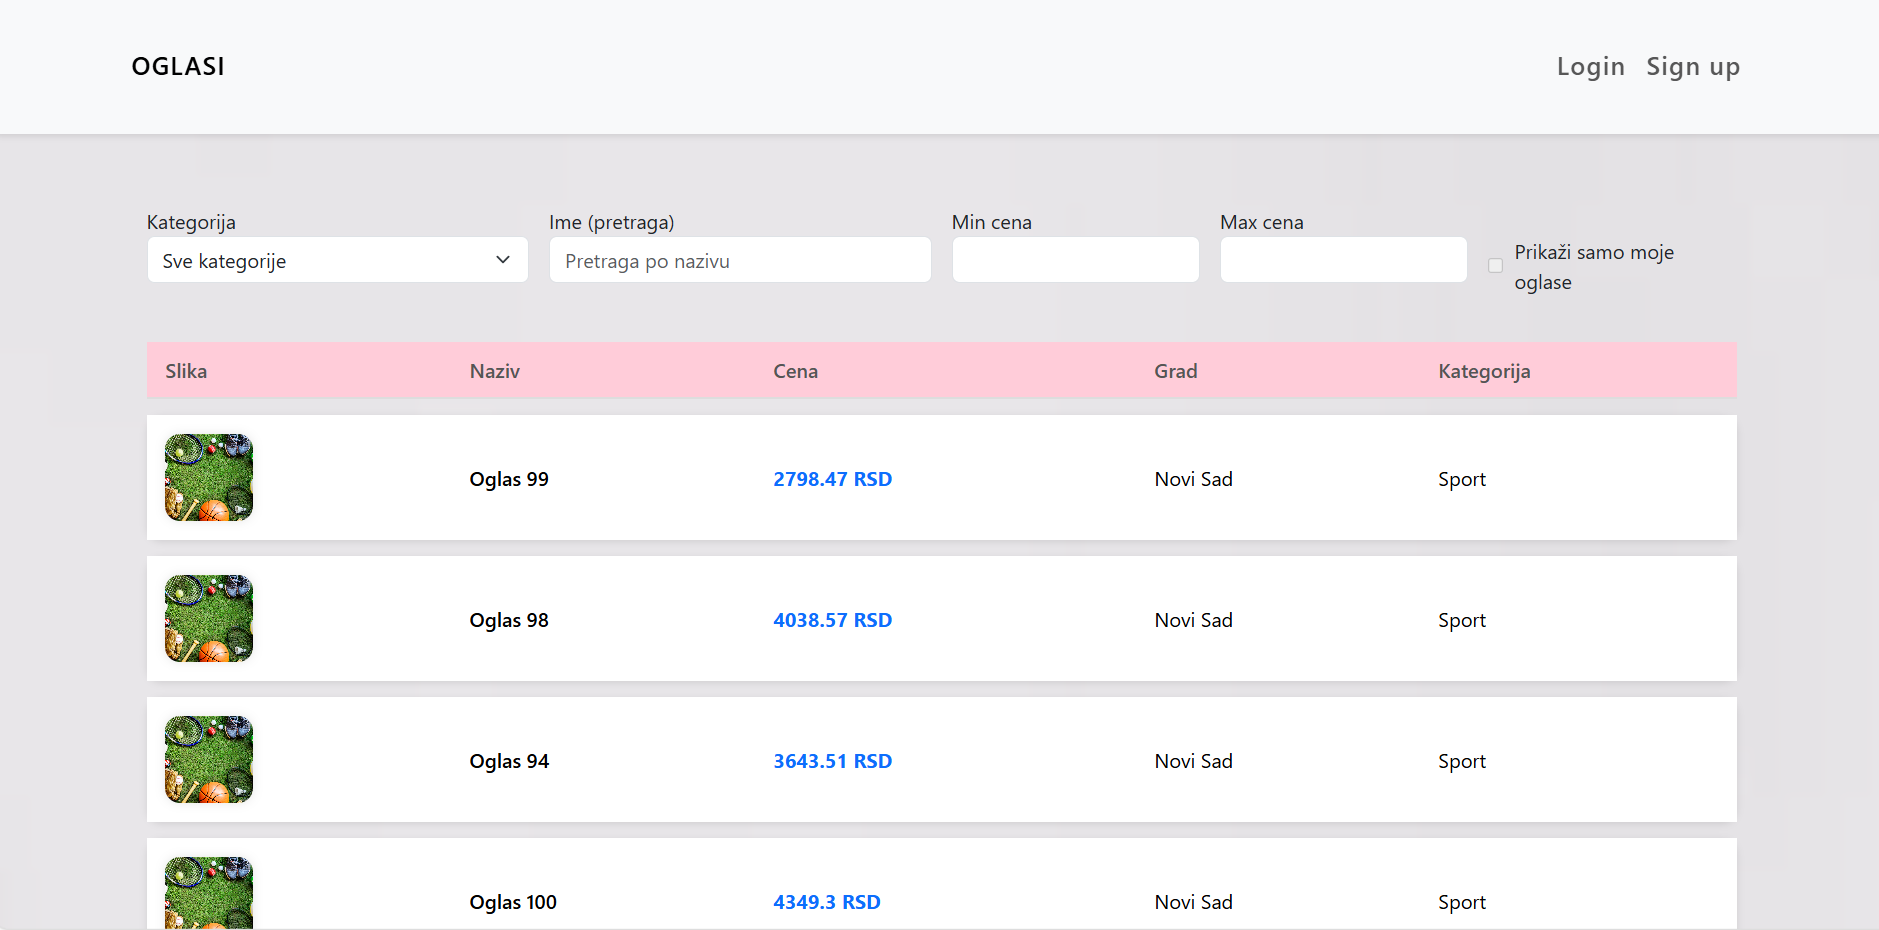
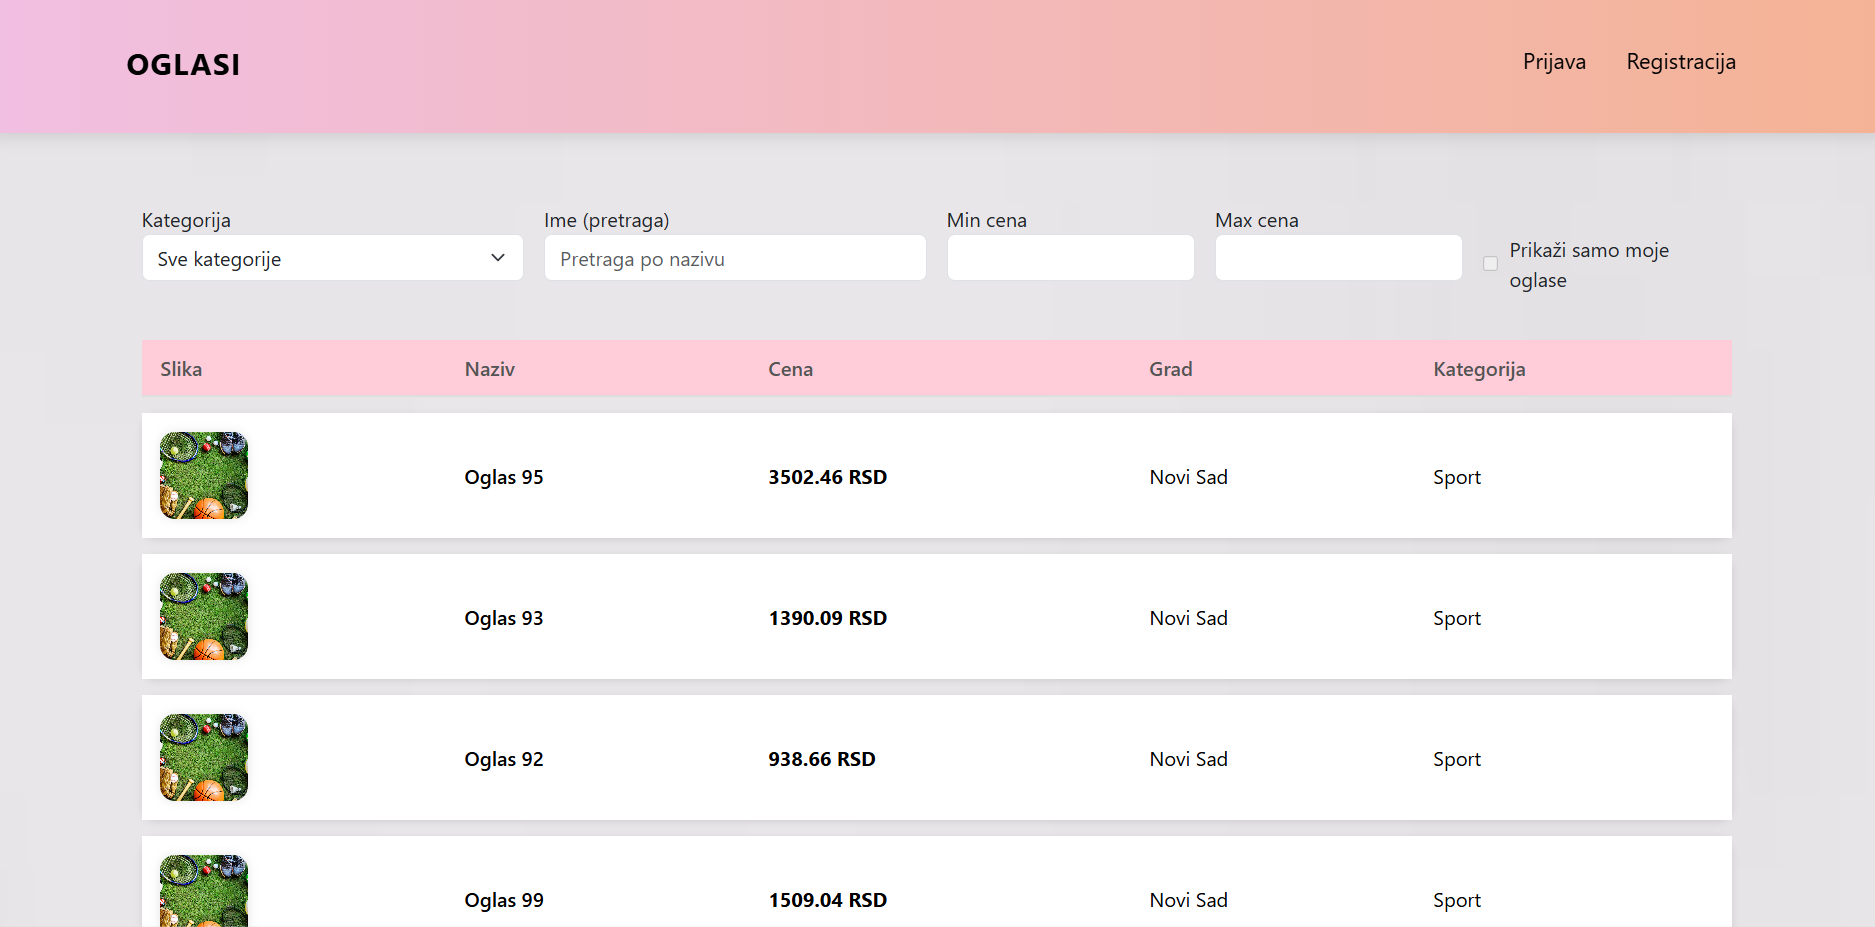
Izmena css

diff --git a/Oglasi/frontend/frontend/src/components/Navbar.jsx b/Oglasi/frontend/frontend/src/components/Navbar.jsx
@@ -2,28 +2,28 @@ import { Link } from 'react-router-dom';
 
 function Navbar({ isLoggedIn, username, onLogout }) {
   return (
-    <nav className="navbar navbar-expand-lg navbar-light bg-light fixed-top navbar-tall">
+    <nav className="navbar navbar-expand-lg custom-navbar fixed-top">
       <div className="container">
-        <Link className="navbar-brand" to="/">OGLASI</Link>
-        <div className="collapse navbar-collapse">
-          <ul className="navbar-nav ms-auto">
+        <Link className="navbar-brand fw-bold text-white" to="/">OGLASI</Link>
+        <div className="collapse navbar-collapse justify-content-end">
+          <ul className="navbar-nav align-items-center gap-3">
             {isLoggedIn ? (
               <>
-                <li className="nav-item d-flex align-items-center px-3">Zdravo, {username}</li>
+                <li className="nav-item text-white">Zdravo, <strong>{username}</strong></li>
                 <li className="nav-item">
-                  <Link className="nav-link" to="/add-ad">Dodaj oglas</Link>
+                  <Link className="nav-link text-white nav-link-hover" to="/add-ad">➕ Dodaj oglas</Link>
                 </li>
-                <li className="nav-item d-flex align-items-center px-2">
-                  <button className="btn btn-outline-danger btn-sm" onClick={onLogout}>Sign out</button>
+                <li className="nav-item">
+                  <button className="btn btn-sm btn-light rounded-pill" onClick={onLogout}>Odjavi se</button>
                 </li>
               </>
             ) : (
               <>
                 <li className="nav-item">
-                  <Link className="nav-link" to="/login">Login</Link>
+                  <Link className="nav-link text-white nav-link-hover" to="/login">Prijava</Link>
                 </li>
                 <li className="nav-item">
-                  <Link className="nav-link" to="/register">Sign up</Link>
+                  <Link className="nav-link text-white nav-link-hover" to="/register">Registracija</Link>
                 </li>
               </>
             )}

diff --git a/Oglasi/frontend/frontend/src/App.css b/Oglasi/frontend/frontend/src/App.css
@@ -28,6 +28,17 @@
   color: #61dafb;
 }
 
+.btn-pink {
+  background-color: rgb(215, 189, 208) ;
+  border-color: rgb(213, 173, 202) ;
+  color: black;
+}
+
+.btn-pink:hover {
+  background-color:  rgb(213, 173, 202);
+  border-color:  rgb(213, 173, 202);
+}
+
 .navbar-tall {
   padding-top: 2rem; 
   padding-bottom: 2rem;   
@@ -37,6 +48,60 @@
   box-shadow: 0 2px 5px rgba(0,0,0,0.1); 
   letter-spacing: 0.05em; 
 }
+
+.custom-navbar {
+  background: linear-gradient(90deg, #f1bfe2 0%, #f4b395 100%);
+  padding: 2rem 0;
+  box-shadow: 0 4px 12px rgba(0,0,0,0.1);
+  font-size: 1.1rem;
+}
+
+.custom-navbar a, 
+.custom-navbar .navbar-brand, 
+.custom-navbar .nav-link, 
+.custom-navbar .nav-item {
+  color: black !important;
+}
+
+
+.navbar-brand {
+  font-size: 1.5rem;
+  letter-spacing: 1px;
+}
+
+.nav-link-hover {
+  position: relative;
+  transition: color 0.3s;
+}
+
+.nav-link-hover::after {
+  content: '';
+  display: block;
+  width: 0%;
+  height: 2px;
+  background: rgb(216, 143, 197);
+  transition: width 0.3s;
+  margin-top: 3px;
+}
+
+.nav-link-hover:hover::after {
+  width: 100%;
+}
+
+.nav-link-hover:hover {
+  color: #720559 !important;
+}
+
+.btn-light {
+  font-weight: 500;
+}
+
+.page-item.active .page-link {
+  background-color: #ff69b4; 
+  border-color: #ff69b4;
+  color: white;
+}
+
 
 .modern-table {
   width: 100%;

diff --git a/Oglasi/frontend/frontend/src/pages/LoginPage.jsx b/Oglasi/frontend/frontend/src/pages/LoginPage.jsx
@@ -34,7 +34,7 @@ function LoginPage({ setIsLoggedIn, setUsername }) {
         className="border rounded shadow p-4"
         style={{ minWidth: '350px', maxWidth: '400px', width: '100%' }}
       >
-        <h2 className="mb-4 text-center">Login</h2>
+        <h2 className="mb-4 text-center">Prijava</h2>
 
         <div className="mb-3">
         <label>Korisničko ime</label>
@@ -57,7 +57,7 @@ function LoginPage({ setIsLoggedIn, setUsername }) {
         />
       </div>
         {error && <div className="alert alert-danger">{error}</div>}
-        <button className="btn btn-primary w-100" type="submit">
+        <button className="btn btn-pink w-100" type="submit">
           Prijavi se
         </button>
       </form>

diff --git a/Oglasi/frontend/frontend/src/components/AdsTable.jsx b/Oglasi/frontend/frontend/src/components/AdsTable.jsx
@@ -54,7 +54,7 @@ function AdsTable({ ads = [], isLoggedIn, username, refreshAds }) {
               />
             </td>
             <td className="fw-semibold">{ad.title}</td>
-            <td className="text-primary fw-bold">{ad.price} RSD</td>
+            <td className="text-pink fw-bold">{ad.price} RSD</td>
             <td>{ad.city}</td>
             <td>{categoryLabels[ad.category] || ad.category}</td>
             {isLoggedIn && (

diff --git a/Oglasi/frontend/frontend/src/pages/RegisterPage.jsx b/Oglasi/frontend/frontend/src/pages/RegisterPage.jsx
@@ -88,7 +88,7 @@ function RegisterPage() {
         {error && <div className="alert alert-danger">{error}</div>}
         {success && <div className="alert alert-success">{success}</div>}
 
-        <button className="btn btn-primary w-100" type="submit">
+        <button className="btn btn-pink w-100" type="submit">
           Registruj se
         </button>
       </form>

diff --git a/Oglasi/frontend/frontend/src/pages/AddAdvertisementPage.jsx b/Oglasi/frontend/frontend/src/pages/AddAdvertisementPage.jsx
@@ -135,7 +135,7 @@ function AddAdvertisementPage() {
           )}
 
           <div className="text-center">
-            <button type="submit" className="btn btn-primary px-5">Dodaj</button>
+            <button type="submit" className="btn btn-pink px-5">Dodaj</button>
           </div>
         </form>
       </div>
